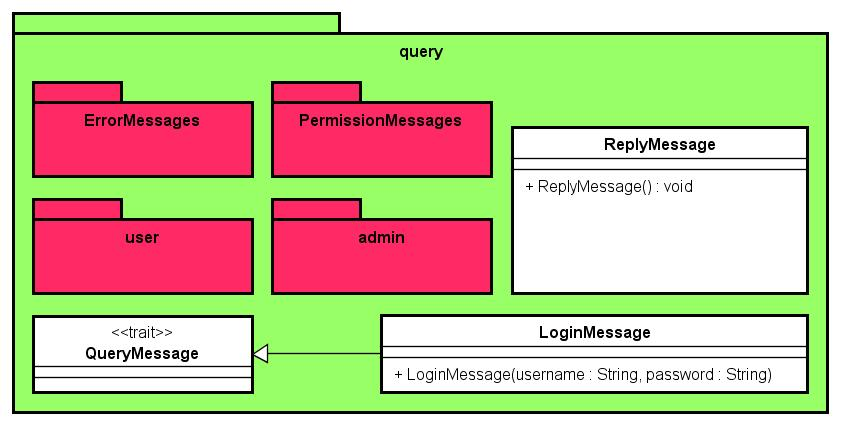
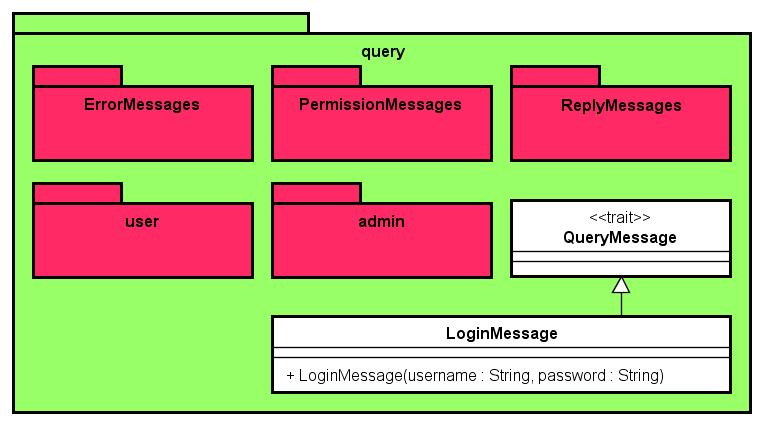
st ra update messages

diff --git a/LaTeX/Specifica tecnica.tex b/LaTeX/Specifica tecnica.tex
@@ -1174,6 +1174,7 @@
 				\begin{itemize}
 					\item Actorbase.server.messages.query.ErrorMessages
 					\item Actorbase.server.messages.query.PermissionMessages
+					\item Actorbase.server.messages.query.ReplyMessages
 					\item Actorbase.server.messages.query.user
 					\item Actorbase.server.messages.query.admin
 				\end{itemize}
@@ -1181,7 +1182,6 @@
 			\subsubsection{Classi}
 				\begin{itemize}
 					\item Actorbase.server.messages.query.LoginMessage
-					\item Actorbase.server.messages.query.ReplyMessage
 				\end{itemize}
 				
 			\subsubsection{Trait}
@@ -1192,38 +1192,30 @@
 		\subsection{Actorbase.server.messages.query.QueryMessage}
 		\label{QueryMessage}
 			\subsubsection{Descrizione}
-				Classe che rappresenta un messaggio contenente una richiesta effettuata da un utente.
+				Interfaccia che rappresenta un messaggio contenente una richiesta effettuata da un utente.
 				
 			\subsubsection{Utilizzo}
-				Viene utilizzata da tutti gli attori, in particolar modo segue diversi percorsi in base alla sottoclasse concreta a cui appartiene.
-				Viene creato da un \textbf{Parser} sotto richiesta di un \textbf{Usermanager} ed inviato ad un \textbf{Main}. Da qui può fermarsi in 
-				qualsiasi punto della sequenza: \textbf{Storemanager} \space -> \space \textbf{Storefinder} 
-				\space -> \space \textbf{Storekeeper} \space -> \space \textbf{Warehouseman}.
+				Viene estesa da tutti i messaggi che rappresentano una query utente ad \emph{Actorbase}.
 			\subsubsection{Relazioni con altre classi}
 				\begin{itemize}
-					\item \textbf{Actorbase.server.utils.Parser:} relazione entrante di creazione.
-					\item \textbf{Actorbase.server.actors.Usermanager:} relazione di utilizzo.
-					\item \textbf{Actorbase.server.actors.Main:} relazione di utilizzo.
-					\item \textbf{Actorbase.server.actors.Storemanager:} relazione di utilizzo.
-					\item \textbf{Actorbase.server.actors.Storefinder:} relazione di utilizzo.
-					\item \textbf{Actorbase.server.actors.Storekeeper:} relazione di utilizzo.
-					\item \textbf{Actorbase.server.actors.Warehouseman:} relazione di utilizzo.
-					\item \textbf{Actorbase.server.messages.query.ReplyMessage:} relazione entrante, aggregazione.
+					\item \textbf{Actorbase.server.messages.query.user.UserMessage:} relazione entrante, aggregazione.
+					\item \textbf{Actorbase.server.messages.query.user.AdminMessage:} relazione entrante, aggregazione.
+					\item \textbf{Actorbase.server.actors.Main:} relazione entrante, utilizzo.
+					\item \textbf{Actorbase.server.actors.Usermanager:} relazione entrante, utilizzo.
 				\end{itemize}
 			\subsubsection{Classi figlie}
 				\begin{itemize}
-					\item Actorbase.server.messages.query.LoginMessage
-					\item Actorbase.server.messages.query.ErrorMessages.InvalidQueryMessage
-					\item Actorbase.server.messages.query.admin.AdminMessage
+					\item Actorbase.server.messages.query.user.AdminMessage
 					\item Actorbase.server.messages.query.user.UserMessage
 				\end{itemize}
+				
 				
 		\subsection{Actorbase.server.messages.query.LoginMessage}
 			\subsubsection{Descrizione}
 				Classe che rappresenta un messaggio contenente la richiesta di login effettuata da parte di un utente.
 				
 			\subsubsection{Utilizzo}
-				Nel percorso esposto in \hyperref[QueryMessage]{Actorbase.server.messages.query.QueryMessage} si ferma all'attore \textbf{Usermanager}.
+				Viene utilizzato per formulare una richiesta di login ad attori \textbf{Usermanager}.
 				
 			\subsubsection{Relazioni con altre classi}
 				\begin{itemize}
@@ -1235,22 +1227,6 @@
 					\item Actorbase.server.messages.query.QueryMessage
 				\end{itemize}
 		
-		\subsection{Actorbase.server.messages.query.ReplyMEssage}
-			\subsubsection{Descrizione}
-				Classe che rappresenta un messaggio di risposta ad una richiesta effettuata da parte di un utente.
-				
-			\subsubsection{Utilizzo}
-				Effettua il percorso esposto in \hyperref[QueryMessage]{Actorbase.server.messages.query.QueryMessage} in senso opposto.
-				
-			\subsubsection{Relazioni con altre classi}
-				\begin{itemize}
-					\item \textbf{Actorbase.server.actors.Usermanager:} relazione entrante, creazione e utilizzo.
-					\item \textbf{Actorbase.server.actors.Main:} relazione entrante, creazione e utilizzo.
-					\item \textbf{Actorbase.server.actors.Storemanager:} relazione entrante, creazione e utilizzo.
-					\item \textbf{Actorbase.server.actors.Storefinder:} relazione entrante, creazione e utilizzo.
-					\item \textbf{Actorbase.server.actors.Storekeeper:} relazione entrante, creazione e utilizzo.
-					\item \textbf{Actorbase.server.actors.Warehouseman:} relazione entrante, creazione e utilizzo.
-				\end{itemize}
 				
 		\subsection{Actorbase.server.messages.query.ErrorMessages}
 		
@@ -1391,6 +1367,21 @@
 					\item Actorbase.server.messages.query.user.RowMessages.RemoveRowMessage
 				\end{itemize}
 				
+				\subsection{Actorbase.server.messages.query.ReplyMessages}	
+			\subsubsection{Descrizione}
+				Package contenente i messaggi che rappresentano le risposte tra gli attori.
+				
+			\subsubsection{Trait}
+				\begin{itemize}
+					\item Actorbase.server.messages.query.ReplyMessages.ReplyInfo
+				\end{itemize}
+				
+				\subsubsection{Classi}
+				\begin{itemize}
+					\item Actorbase.server.messages.query.ReplyMessages.ReplyMessage
+					\item Actorbase.server.messages.query.ReplyMessages.ReplyErrorInfo
+				\end{itemize}
+				
 		\subsection{Actorbase.server.messages.query.admin}
 		
 			\begin{figure}[H]
@@ -1404,7 +1395,7 @@
 				
 			\subsubsection{Package Figli}
 				\begin{itemize}
-					\item Actorbase.server.messages.query.admin.ActorPropertiesMessages
+					\item Actorbase.server.messages.query.admin.SettingMessages
 					\item Actorbase.server.messages.query.admin.PermissionsManagementMessages
 					\item Actorbase.server.messages.query.admin.UserManagementMessages
 				\end{itemize}
@@ -1434,164 +1425,19 @@
 					\item Actorbase.server.messages.query.admin.UsersManagementMessage
 				\end{itemize}
 		
-		\subsection{Actorbase.server.messages.query.admin.ActorPropertiesMessages}
-		
-			\begin{figure}[H]
-				\centering
-				\includegraphics[width=\textwidth]{ST/Server/actorPropertiesLevel.jpg}
-				\caption{Componente Actorbase.server.messages.query.admin.ActorPropertiesMessages}
-			\end{figure}
-			
+		\subsection{Actorbase.server.messages.query.admin.SettingMessages}
 			\subsubsection{Descrizione}
-				Package contenente i messaggi per modificare le proprietà degli attori che compongono il sistema.
-				
+				Package contenente i messaggi che permettono di gestire i le impostazioni del sistema.
 			\subsubsection{Classi}
 				\begin{itemize}
-					\item Actorbase.server.messages.query.admin.ActorPropertiesMessages.MaxRowMessage
-					\item Actorbase.server.messages.query.admin.ActorPropertiesMessages.MaxNinjaMessage
-					\item Actorbase.server.messages.query.admin.ActorPropertiesMessages.SetWarehousemanMessage
-					\item Actorbase.server.messages.query.admin.ActorPropertiesMessages.MaxStorekeeperMessage
-					\item Actorbase.server.messages.query.admin.ActorPropertiesMessages.MaxStorefinderMessage
+					\item Actorbase.server.messages.query.admin.SettingMessages.SettingMessage
 				\end{itemize}
 				
 			\subsubsection{Trait}
 				\begin{itemize}
-					\item Actorbase.server.messages.query.admin.ActorPropertiesMessages.ActorPropertiesMessage
-				\end{itemize}
-		
-		\subsection{Actorbase.server.messages.query.admin \newline .ActorPropertiesMessages.ActorPropertiesMessage}
-			\subsubsection{Descrizione}
-				Trait per identificare i messaggi per modificare le proprietà degli attori che compongono il sistema.
-				
-			\subsubsection{Utilizzo}
-				Viene utilizzato per poter distinguere i comandi per modificare le proprietà degli attori che compongono il sistema.
-				
-			\subsubsection{Relazioni con altre classi}
-				\begin{itemize}
-					\item \textbf{Actorbase.server.utils.Parser:} relazione entrante di creazione.
-					\item \textbf{Actorbase.server.actors.Usermanager:} relazione di utilizzo.
-					\item \textbf{Actorbase.server.actors.Main:} relazione di utilizzo.
-					\item \textbf{Actorbase.server.actors.Storemanager:} relazione entrante, creazione e utilizzo.
-					\item \textbf{Actorbase.server.actors.Storefinder:} relazione entrante, creazione e utilizzo.
-					\item \textbf{Actorbase.server.actors.Storekeeper:} relazione entrante, creazione e utilizzo.
-					\item \textbf{Actorbase.server.actors.Warehouseman:} relazione entrante, creazione e utilizzo.
-				\end{itemize}
-			\subsubsection{Classi figlie}
-				\begin{itemize}
-					\item Actorbase.server.messages.query.admin.ActorPropertiesMessages.MaxRowMessage
-					\item Actorbase.server.messages.query.admin.ActorPropertiesMessages.SetNinjaMessage
-					\item Actorbase.server.messages.query.admin.ActorPropertiesMessages.SetWarehousemanMessage
-					\item Actorbase.server.messages.query.admin.ActorPropertiesMessages.MaxStorekeeperMessage
-					\item Actorbase.server.messages.query.admin.ActorPropertiesMessages.MaxStorefinderMessage
-				\end{itemize}
-
-		\subsection{Actorbase.server.messages.query.admin \newline
-		.ActorPropertiesMessages.MaxRowMessage}
-		
-			\subsubsection{Descrizione}
-				Questa classe rappresenta un messaggio per modificare il numero di righe massimo di una mappa che uno \textbf{Storekeeper} può gestire.
-				
-			\subsubsection{Utilizzo}
-				Effettua il percorso descritto in \hyperref[QueryMessage]{Actorbase.server.messages.query.QueryMessage} fermandosi all'attore 
-				\textbf{Storekeeper}.
-				
-			\subsubsection{Trait implementati}
-				\begin{itemize}
-					\item Actorbase.server.messages.query.admin.ActorPropertiesMessages.ActorPropertiesMessage
-				\end{itemize}
-		
-<<<<<<< Updated upstream
-		\subsection{Actorbase.server.messages.query.admin.ActorPropertiesMessages.SetNinjaMessage}
-=======
-		\subsection{Actorbase.server.messages.query.admin \newline
-		.ActorPropertiesMessages.MaxNinjaMessage}
->>>>>>> Stashed changes
-			\subsubsection{Descrizione}
-				Questa classe rappresenta un messaggio per modificare il numero di attori \textbf{Ninja} assegnati ad ogni \textbf{Storekeeper}.
-				
-			\subsubsection{Utilizzo}
-				Effettua il percorso descritto in \hyperref[QueryMessage]{Actorbase.server.messages.query.QueryMessage} fermandosi all'attore 
-				\textbf{Storefinder}.
-				
-			\subsubsection{Relazioni con altre classi}
-				\begin{itemize}
-					\item \textbf{Actorbase.server.utils.Parser:} relazione entrante di creazione.
-					\item \textbf{Actorbase.server.actors.Usermanager:} relazione di utilizzo.
-					\item \textbf{Actorbase.server.actors.Main:} relazione di utilizzo.
-					\item \textbf{Actorbase.server.actors.Storemanager:} relazione entrante, creazione e utilizzo.
-					\item \textbf{Actorbase.server.actors.Storefinder:} relazione entrante, creazione e utilizzo.
-				\end{itemize}
-			\subsubsection{Trait implementati}
-				\begin{itemize}
-					\item Actorbase.server.messages.query.admin.ActorPropertiesMessage
-				\end{itemize}
-
-<<<<<<< Updated upstream
-		\subsection{Actorbase.server.messages.query.admin.ActorPropertiesMessages.SetWarehousemanMessage}
-=======
-		\subsection{Actorbase.server.messages.query.admin \newline
-		.ActorPropertiesMessages.MaxWarehousemanMessage}
->>>>>>> Stashed changes
-			\subsubsection{Descrizione}
-				Questa classe rappresenta un messaggio per modificare il numero di attori \textbf{Warehouseman} assegnati ad ogni \textbf{Storekeeper}.
-				
-			\subsubsection{Utilizzo}
-				Effettua il percorso descritto in \hyperref[QueryMessage]{Actorbase.server.messages.query.QueryMessage} fermandosi all'attore 
-				\textbf{Storefinder}.
-				
-			\subsubsection{Relazioni con altre classi}
-				\begin{itemize}
-					\item \textbf{Actorbase.server.utils.Parser:} relazione entrante di creazione.
-					\item \textbf{Actorbase.server.actors.Usermanager:} relazione di utilizzo.
-					\item \textbf{Actorbase.server.actors.Main:} relazione di utilizzo.
-					\item \textbf{Actorbase.server.actors.Storemanager:} relazione entrante, creazione e utilizzo.
-					\item \textbf{Actorbase.server.actors.Storefinder:} relazione entrante, creazione e utilizzo.
-				\end{itemize}
-			\subsubsection{Trait implementati}
-				\begin{itemize}
-					\item Actorbase.server.messages.query.admin.ActorPropertiesMessage
-				\end{itemize}
-		
-		\subsection{Actorbase.server.messages.query.admin \newline
-		.ActorPropertiesMessages.MaxStorekeeperMessage}
-			\subsubsection{Descrizione}
-				Questa classe rappresenta un messaggio per modificare il numero massimo di attori \textbf{Storekeeper} gestiti da ogni \textbf{Storefinder}.
-				
-			\subsubsection{Utilizzo}
-				Effettua il percorso descritto in \hyperref[QueryMessage]{Actorbase.server.messages.query.QueryMessage} fermandosi all'attore 
-				\textbf{Storemanager}.
-				
-			\subsubsection{Relazioni con altre classi}
-				\begin{itemize}
-					\item \textbf{Actorbase.server.utils.Parser:} relazione entrante di creazione.
-					\item \textbf{Actorbase.server.actors.Usermanager:} relazione di utilizzo.
-					\item \textbf{Actorbase.server.actors.Main:} relazione di utilizzo.
-					\item \textbf{Actorbase.server.actors.Storemanager:} relazione entrante, creazione e utilizzo.
-				\end{itemize}
-			\subsubsection{Trait implementati}
-				\begin{itemize}
-					\item Actorbase.server.messages.query.admin.ActorPropertiesMessage
-				\end{itemize}
-				
-		\subsection{Actorbase.server.messages.query.admin \newline
-		.ActorPropertiesMessages.MaxStorefinderMessage}
-			\subsubsection{Descrizione}
-				Questa classe rappresenta un messaggio per modificare il numero massimo di attori \textbf{Storefinder} gestiti da ogni \textbf{Usermanager}.
-				
-			\subsubsection{Utilizzo}
-				Effettua il percorso descritto in \hyperref[QueryMessage]{Actorbase.server.messages.query.QueryMessage} fermandosi all'attore 
-				\textbf{Main}.
-				
-			\subsubsection{Relazioni con altre classi}
-				\begin{itemize}
-					\item \textbf{Actorbase.server.utils.Parser:} relazione entrante di creazione.
-					\item \textbf{Actorbase.server.actors.Usermanager:} relazione di utilizzo.
-					\item \textbf{Actorbase.server.actors.Main:} relazione di utilizzo.
-				\end{itemize}
-			\subsubsection{Trait implementati}
-				\begin{itemize}
-					\item Actorbase.server.messages.query.admin.ActorPropertiesMessage
-				\end{itemize}
+					\item Actorbase.server.messages.query.admin.SettingMessages.RefreshSettingsMessage
+					\item Actorbase.server.messages.query.admin.SettingMessages.RefreshSettingsInfo
+					\end{itemize}
 				
 		\subsection{Actorbase.server.messages.query.admin.PermissionsManagementMessages}
 		
